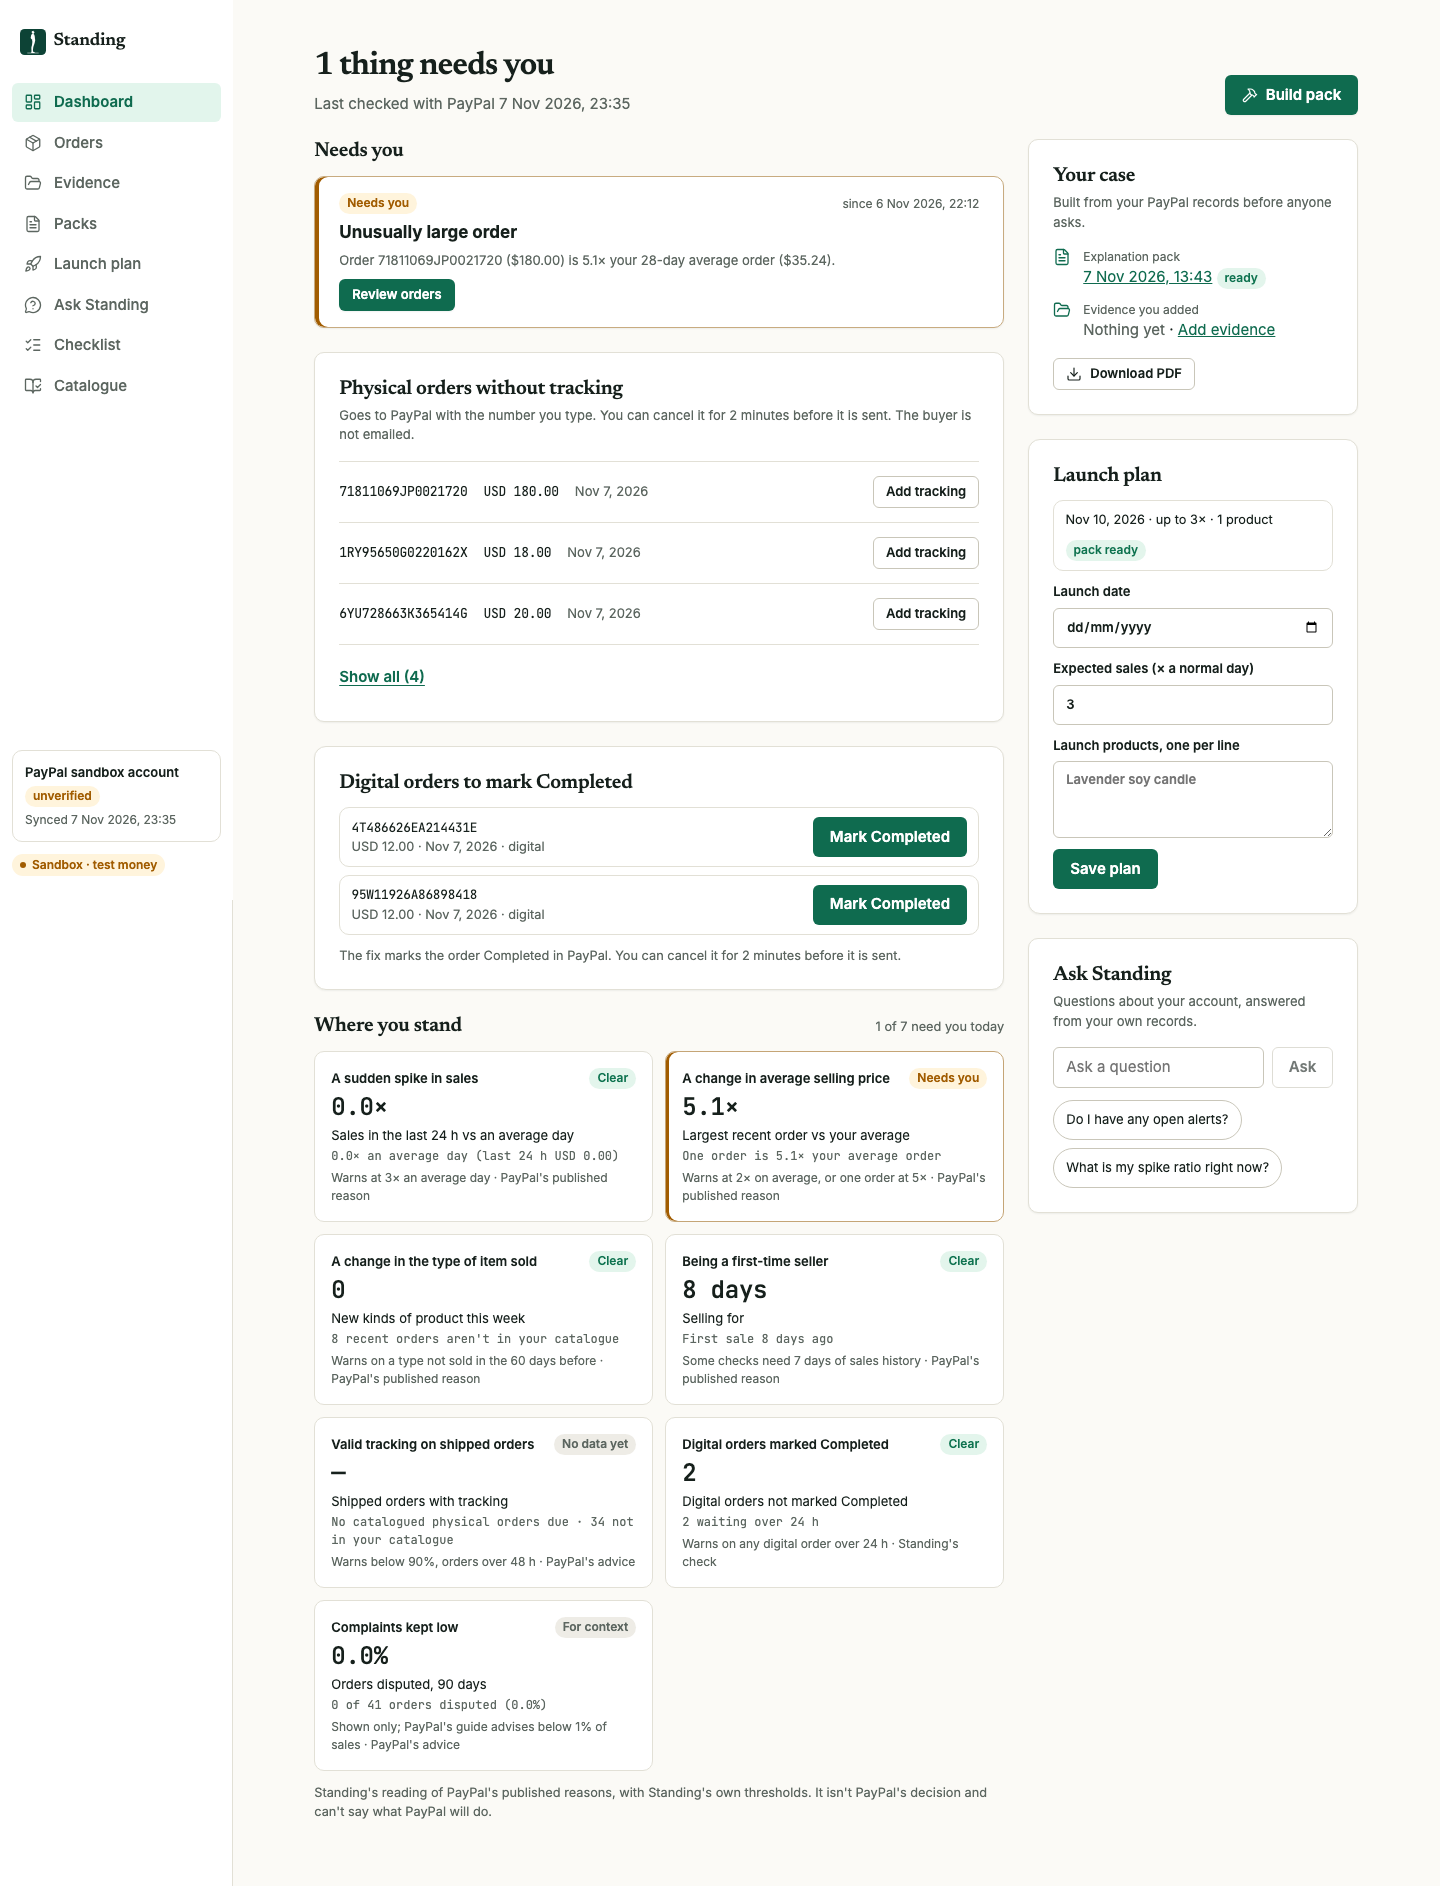
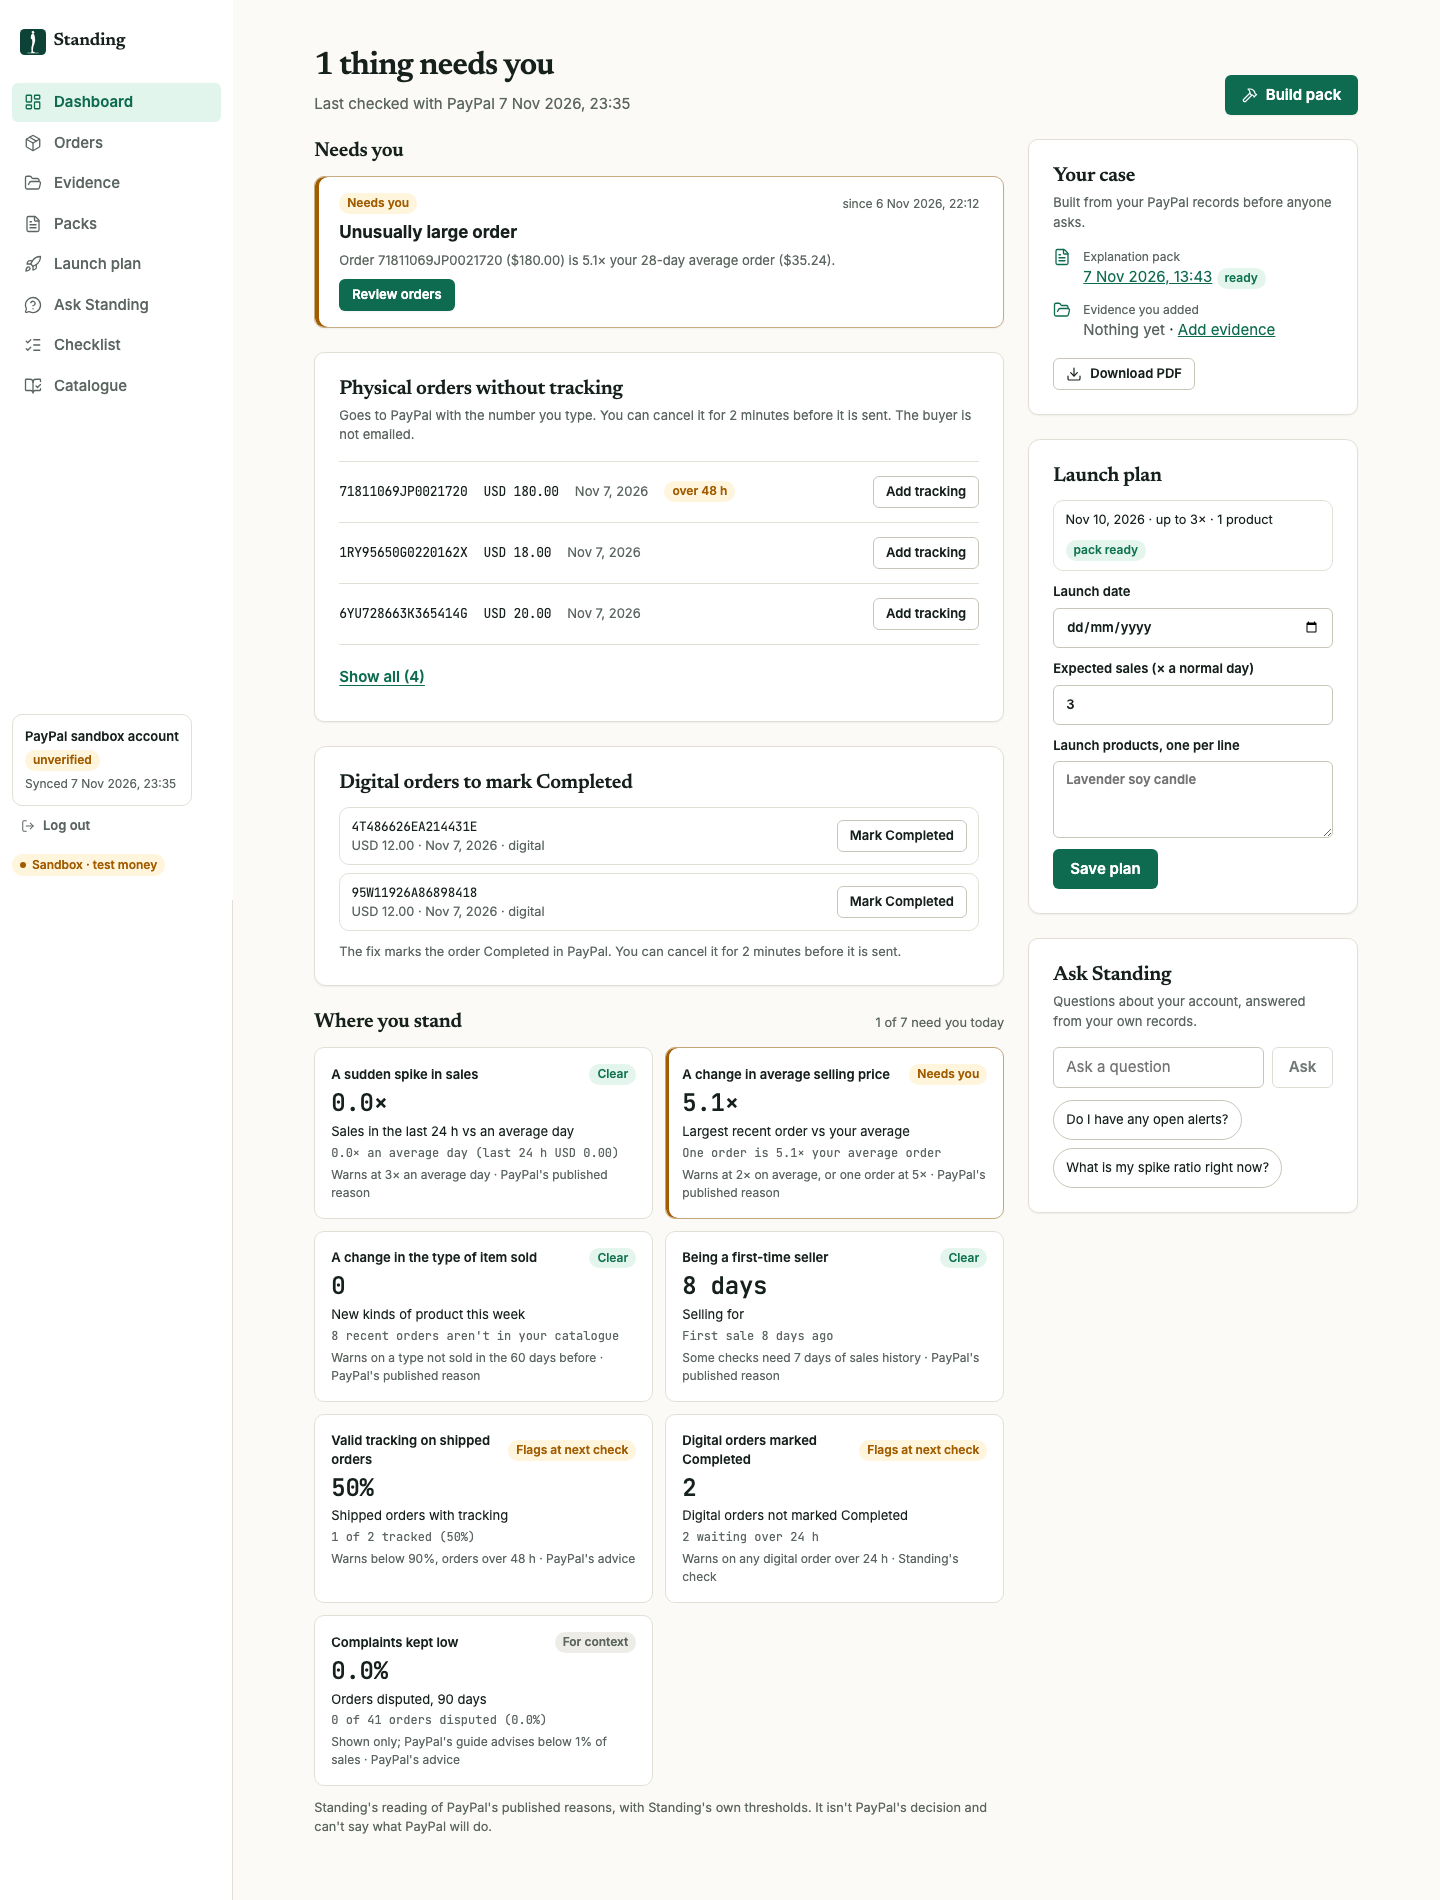
style: consistent page headers and fix buttons across seller pages

diff --git a/src/app/app.css b/src/app/app.css
@@ -790,3 +790,8 @@
 .orders-key dt { font-weight: 600; font-size: 0.9rem; }
 .orders-key dd { margin: 0.2rem 0 0; color: var(--muted); font-size: 0.875rem; line-height: 1.5; }
 .orders-key em { font-style: normal; font-weight: 600; color: var(--ink); }
+
+/* Older pages (Packs, Evidence, Checklist, Catalogue) use .page-head: match the PageHeader's spacing and type. */
+.page-head { margin: var(--s-6) 0 var(--s-5); align-items: flex-end; }
+.page-head h1 { font-family: var(--font-serif), Georgia, serif; font-size: var(--t-32); font-weight: 600; letter-spacing: var(--track-display); line-height: 1.15; margin: 0; }
+.page-head h1 + p { color: var(--muted); margin: var(--s-2) 0 0; max-width: 60ch; font-size: var(--t-15); }

diff --git a/src/app/(seller)/dashboard/parts.tsx b/src/app/(seller)/dashboard/parts.tsx
@@ -248,8 +248,8 @@ function DigitalRow({ gap, onChange }: { gap: DashboardData["digital"][number]; 
       </div>
       <div>
         {!fix || fix.status === "cancelled" || fix.status === "error" ? (
-          <button onClick={start} disabled={busy}>
-            {fix?.status === "cancelled" ? "Mark Completed again" : "Mark Completed"}
+          <button type="button" className="ui-btn ui-btn-secondary ui-btn-sm" onClick={start} disabled={busy}>
+            <span>{fix?.status === "cancelled" ? "Mark Completed again" : "Mark Completed"}</span>
           </button>
         ) : (
           <FixState q={q} />
